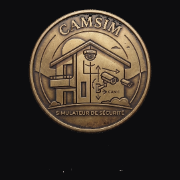
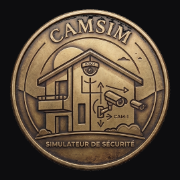
Corrige le recadrage de la pièce CamSim (décalée vers le haut)
CamSimLogo.png avait une grande marge transparente résiduelle en bas
(reste de l'ombre portée mal filtrée lors du recadrage précédent), ce qui
collait la pièce en haut du cadre carré des icônes PWA/favicon et
laissait un vide en forme de croissant en bas une fois masqué en cercle
par Android. Recadrage refait avec un seuil de bruit plus strict pour ne
garder que la pièce, correctement centrée. Régénère toutes les icônes
dérivées et bump les versions de cache-busting (v=2 -> v=3).

Claude-Session: https://claude.ai/code/session_01UhsUbayXPxDQyTZdxynVXc

diff --git a/index.html b/index.html
@@ -4,9 +4,9 @@
     <meta charset="UTF-8" />
     <meta name="viewport" content="width=device-width, initial-scale=1.0, viewport-fit=cover" />
     <title>CamSim</title>
-    <link rel="icon" type="image/png" href="/CamSimLogo.png?v=2" />
-    <link rel="apple-touch-icon" href="/apple-touch-icon.png?v=2" />
-    <link rel="manifest" href="/manifest.webmanifest?v=2" />
+    <link rel="icon" type="image/png" href="/CamSimLogo.png?v=3" />
+    <link rel="apple-touch-icon" href="/apple-touch-icon.png?v=3" />
+    <link rel="manifest" href="/manifest.webmanifest?v=3" />
     <meta name="theme-color" content="#0d0d0f" />
     <link rel="preconnect" href="https://fonts.googleapis.com" />
     <link rel="preconnect" href="https://fonts.gstatic.com" crossorigin />
